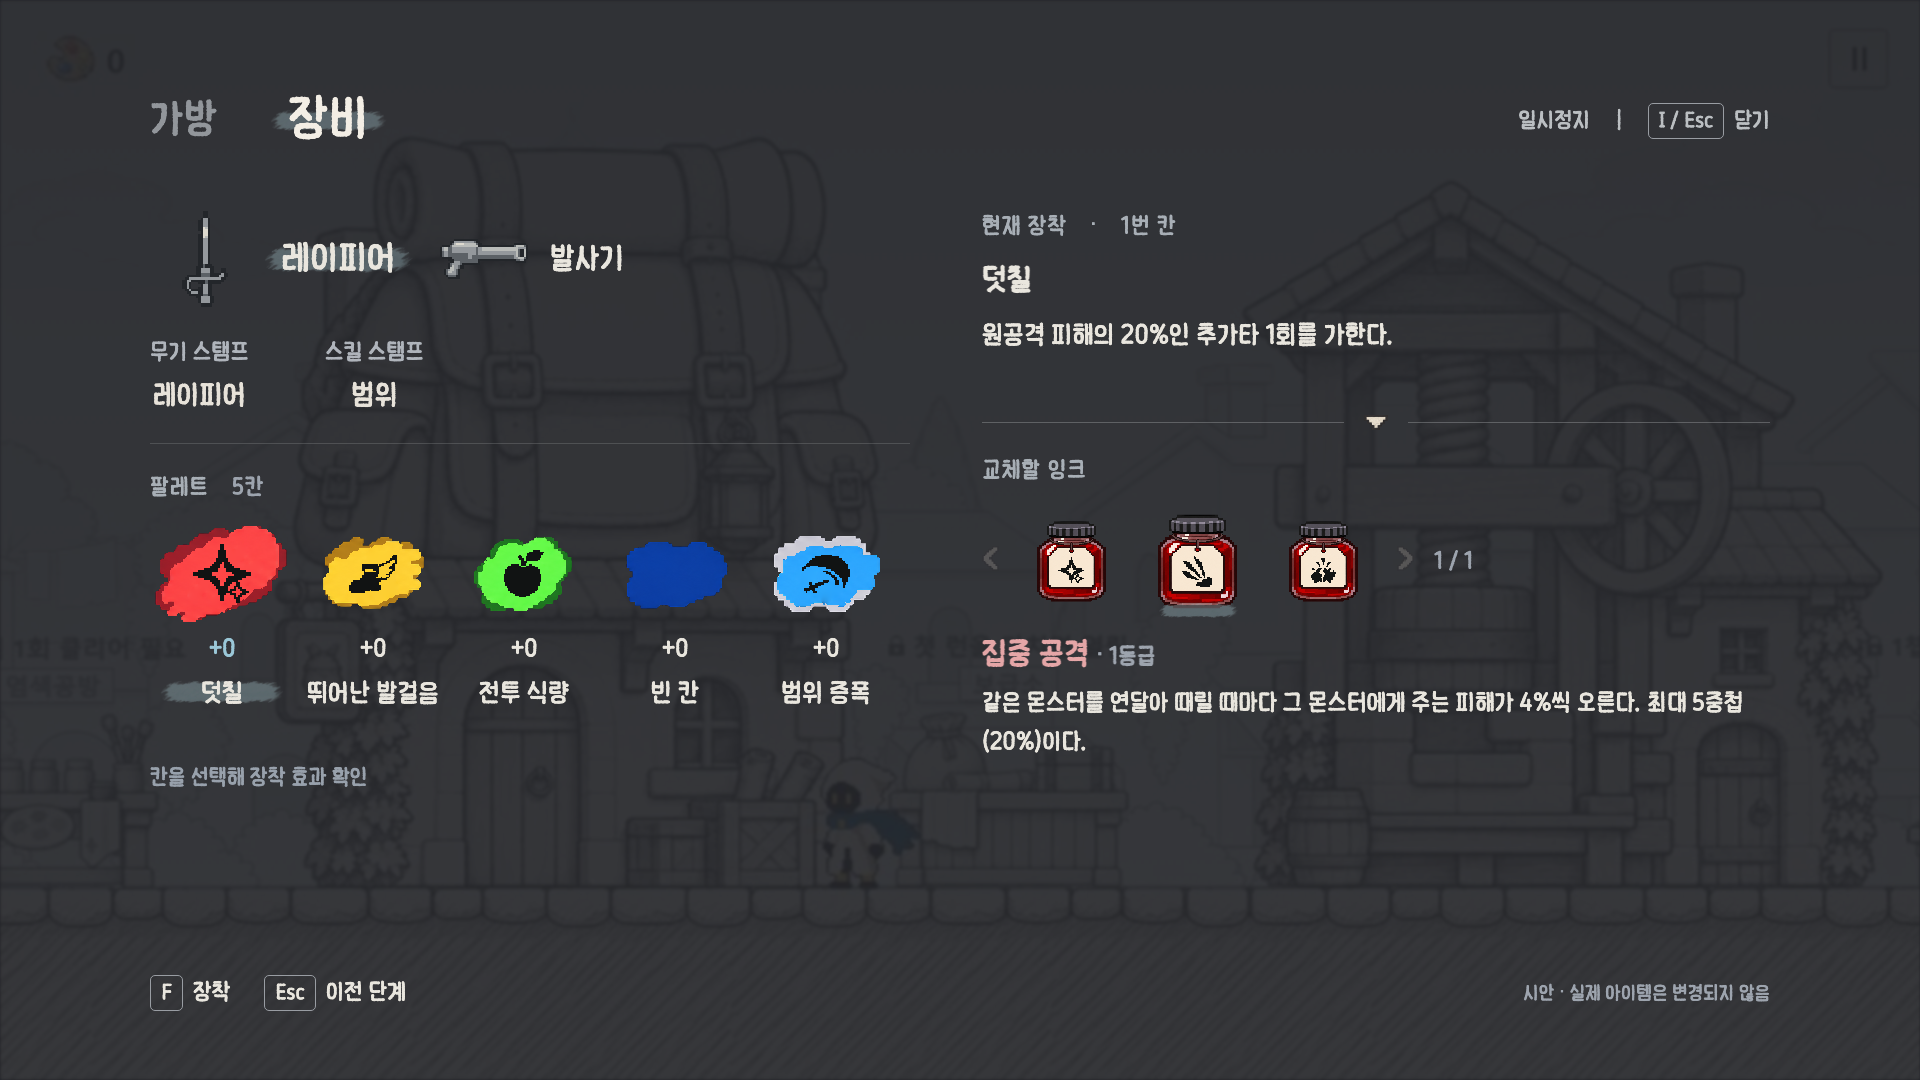
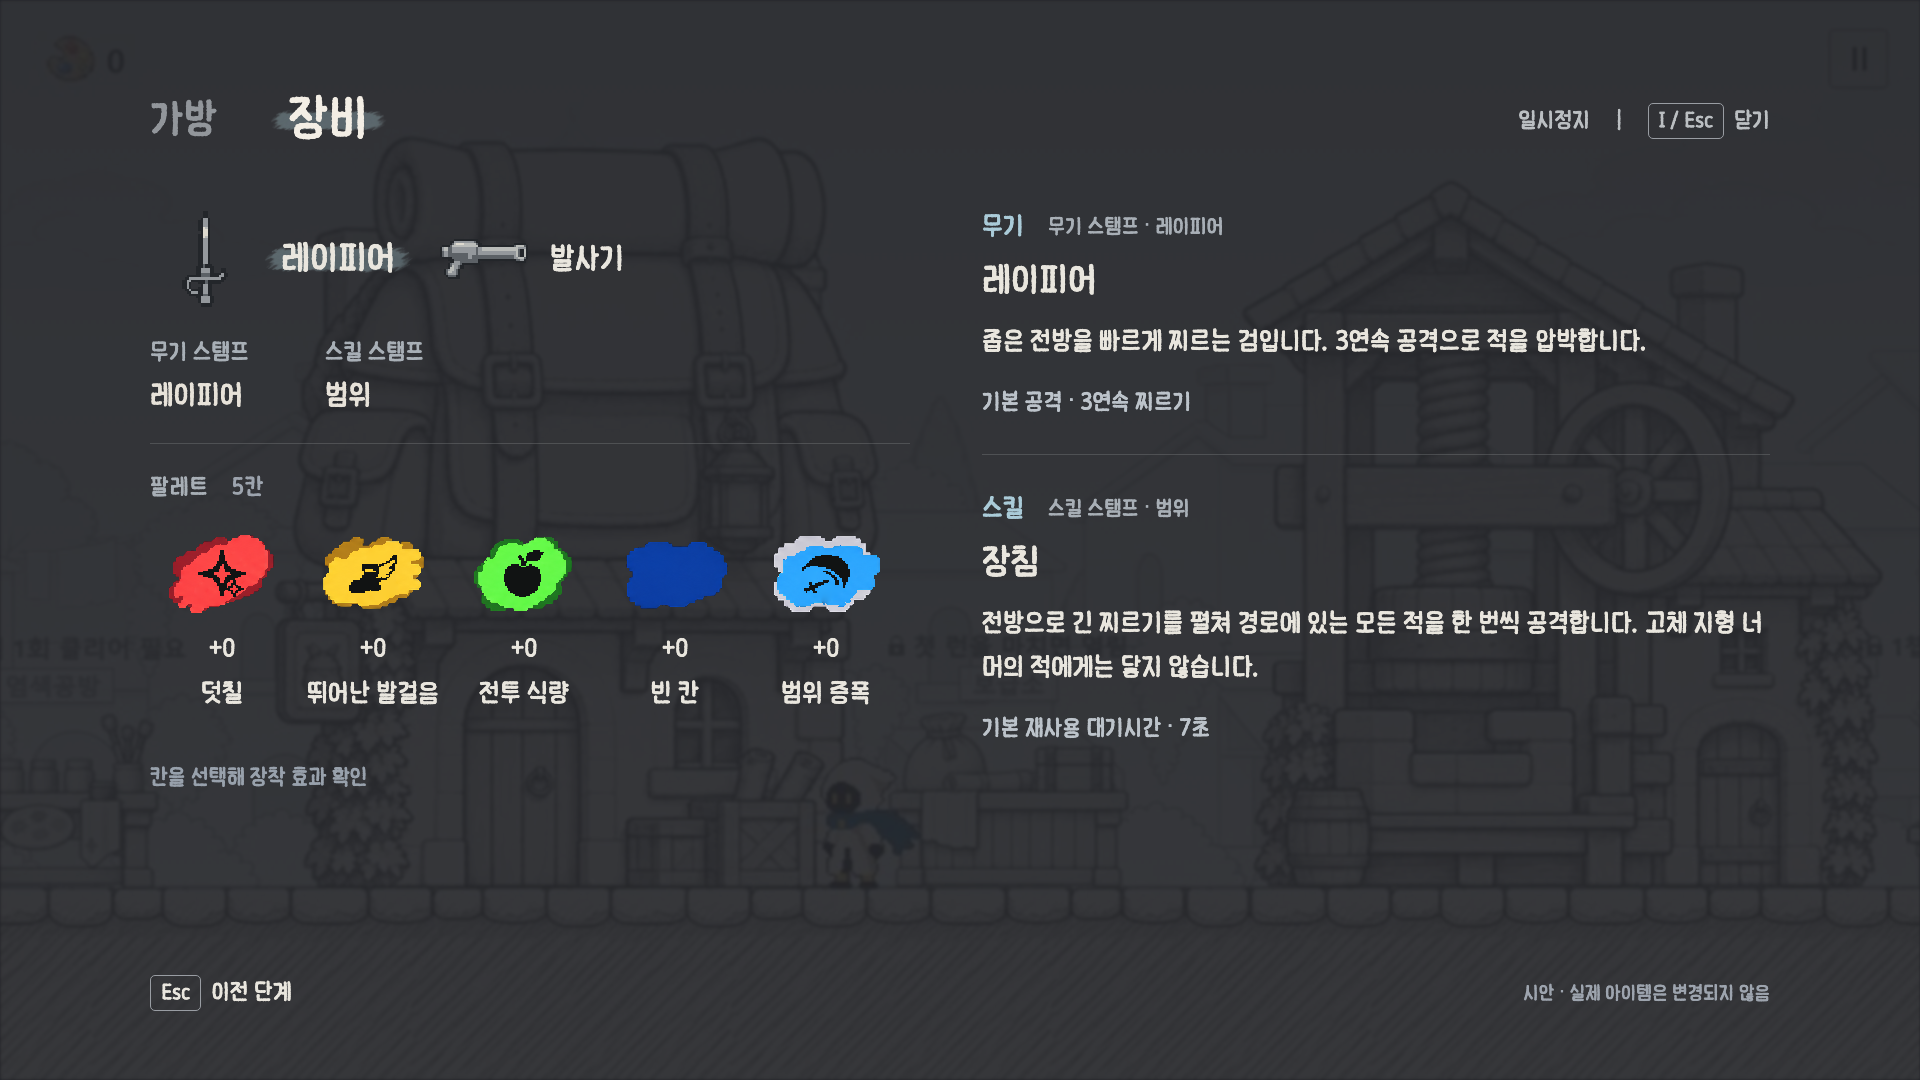
Show weapon and actual skill descriptions together on weapon selection

diff --git a/ui/work/theme/ink-pixel-v1/screen-set-v6/index.html b/ui/work/theme/ink-pixel-v1/screen-set-v6/index.html
@@ -63,11 +63,22 @@ header button.active{transform:scale(1.2)}
 /* Bag icons communicate selection through size only. */
 .grid .item.selected:after{display:none}
 .stamps{gap:76px}.stamps strong{font-family:inherit;font-size:30px;font-weight:normal}.stampTitle{color:#eee9df}.stampWeaponPreview{display:block;width:180px;height:120px;object-fit:contain;image-rendering:pixelated;margin:12px 0 24px}
+.stamps>div{color:#a8afb6}.weaponInfo .infoHeading{font-size:27px;color:#aacbd8;display:flex;align-items:center;gap:24px}.infoHeading span{font-size:22px;color:#a8afb6}.weaponInfo h2{font-size:37px;font-weight:normal;margin:18px 0}.weaponInfo p{font-size:27px;line-height:1.65}.weaponInfo .rule{margin:38px 0}.attackNote{font-size:24px;color:#bcc3ca;margin-top:22px}
 </style><div class="screen"><div class="world"></div><main><header><button id="bag">가방</button><button id="equip">장비</button><aside>일시정지　 |　 <kbd>I / Esc</kbd>닫기</aside></header><div id="content"></div></main><footer class="footer" id="footer"></footer></div><script>
-const data=[{"id": "ink3_red_01", "name": "덧칠", "color": "red", "description": "원공격 피해의 20%인 추가타 1회를 가한다."}, {"id": "ink3_red_02", "name": "집중 공격", "color": "red", "description": "같은 몬스터를 연달아 때릴 때마다 그 몬스터에게 주는 피해가 4%씩 오른다. 최대 5중첩(20%)이다."}, {"id": "ink3_red_04", "name": "터지는 잉크", "color": "red", "description": "표식을 터트린 몬스터에게 기준 피해 60%인 추가타 1회를 가한다."}, {"id": "ink3_yellow_01", "name": "전기 발자국", "color": "yellow", "description": "1.5unit 이동할 때마다 발밑에 작은 전기장(반경 0.75)을 2초간 남긴다. 전기장 안의 몬스터는 0.5초마다 기준 피해 15%를 받는다."}, {"id": "ink3_yellow_02", "name": "뛰어난 발걸음", "color": "yellow", "description": "공격 속도와 이동 속도가 각각 10% 증가한다."}, {"id": "ink3_green_04", "name": "전투 식량", "color": "green", "description": "몬스터를 5마리 처치할 때마다 체력 6을 회복한다."}, {"id": "ink3_green_01", "name": "든든한 배리어", "color": "green", "description": "보호막이 남아 있는 동안 공격 피해가 20% 증가한다."}, {"id": "ink3_blue_01", "name": "범위 증폭", "color": "blue", "description": "공격 범위(반경)가 20% 증가한다."}, {"id": "ink3_blue_02", "name": "교대 타격", "color": "blue", "description": "이 잉크를 낀 무기에서 다른 무기로 바꾸면, 바꿔 든 무기 특수 스킬의 남은 쿨타임이 1초 줄어든다. 이 잉크를 낀 무기의 쿨타임은 줄지 않는다."}, {"id": "ink3_purple_01", "name": "먹물 늪", "color": "purple", "description": "몬스터를 0.8초 속박하고, 속박을 걸 때 기준 피해 30%를 준다."}, {"id": "ink3_purple_05", "name": "사약", "color": "purple", "description": "몬스터를 3초간 중독시켜 0.5초마다 기준 피해 8%를 준다. 다시 맞히면 지속시간만 갱신한다."}, {"id": "ink3_purple_07", "name": "쪽빛 족쇄", "color": "purple", "description": "남색 표식이 터질 때 몬스터를 0.6초 속박하고, 속박을 걸 때 기준 피해 20%를 준다."}];let view=new URLSearchParams(location.search).get('view')||'bag',selected=new URLSearchParams(location.search).has('view')&&new URLSearchParams(location.search).get('view')==='equipment'?1:0,slot=Number(new URLSearchParams(location.search).get('slot')||0),page=0,weapon=0,category=Number(new URLSearchParams(location.search).get('category')||0),stamp=new URLSearchParams(location.search).get('stamp')||'';const hasStamps=new URLSearchParams(location.search).get('stamps')!=='empty';const colors={red:'#e5a6a7',yellow:'#e0cc83',green:'#a9d797',blue:'#97c7e9',purple:'#c7a6df'};let equipped=['ink3_red_01','ink3_yellow_02','ink3_green_04',null,'ink3_blue_01'];const slotColors=['red','yellow','green','blue','neutral'];
+const data=[{"id": "ink3_red_01", "name": "덧칠", "color": "red", "description": "원공격 피해의 20%인 추가타 1회를 가한다."}, {"id": "ink3_red_02", "name": "집중 공격", "color": "red", "description": "같은 몬스터를 연달아 때릴 때마다 그 몬스터에게 주는 피해가 4%씩 오른다. 최대 5중첩(20%)이다."}, {"id": "ink3_red_04", "name": "터지는 잉크", "color": "red", "description": "표식을 터트린 몬스터에게 기준 피해 60%인 추가타 1회를 가한다."}, {"id": "ink3_yellow_01", "name": "전기 발자국", "color": "yellow", "description": "1.5unit 이동할 때마다 발밑에 작은 전기장(반경 0.75)을 2초간 남긴다. 전기장 안의 몬스터는 0.5초마다 기준 피해 15%를 받는다."}, {"id": "ink3_yellow_02", "name": "뛰어난 발걸음", "color": "yellow", "description": "공격 속도와 이동 속도가 각각 10% 증가한다."}, {"id": "ink3_green_04", "name": "전투 식량", "color": "green", "description": "몬스터를 5마리 처치할 때마다 체력 6을 회복한다."}, {"id": "ink3_green_01", "name": "든든한 배리어", "color": "green", "description": "보호막이 남아 있는 동안 공격 피해가 20% 증가한다."}, {"id": "ink3_blue_01", "name": "범위 증폭", "color": "blue", "description": "공격 범위(반경)가 20% 증가한다."}, {"id": "ink3_blue_02", "name": "교대 타격", "color": "blue", "description": "이 잉크를 낀 무기에서 다른 무기로 바꾸면, 바꿔 든 무기 특수 스킬의 남은 쿨타임이 1초 줄어든다. 이 잉크를 낀 무기의 쿨타임은 줄지 않는다."}, {"id": "ink3_purple_01", "name": "먹물 늪", "color": "purple", "description": "몬스터를 0.8초 속박하고, 속박을 걸 때 기준 피해 30%를 준다."}, {"id": "ink3_purple_05", "name": "사약", "color": "purple", "description": "몬스터를 3초간 중독시켜 0.5초마다 기준 피해 8%를 준다. 다시 맞히면 지속시간만 갱신한다."}, {"id": "ink3_purple_07", "name": "쪽빛 족쇄", "color": "purple", "description": "남색 표식이 터질 때 몬스터를 0.6초 속박하고, 속박을 걸 때 기준 피해 20%를 준다."}];let view=new URLSearchParams(location.search).get('view')||'bag',selected=new URLSearchParams(location.search).has('view')&&new URLSearchParams(location.search).get('view')==='equipment'?1:0,slot=Number(new URLSearchParams(location.search).get('slot')||0),page=0,weapon=Number(new URLSearchParams(location.search).get('weapon')||0),category=Number(new URLSearchParams(location.search).get('category')||0),stamp=new URLSearchParams(location.search).has('slot')?'':'weapon';const hasStamps=new URLSearchParams(location.search).get('stamps')!=='empty';const colors={red:'#e5a6a7',yellow:'#e0cc83',green:'#a9d797',blue:'#97c7e9',purple:'#c7a6df'};let equipped=['ink3_red_01','ink3_yellow_02','ink3_green_04',null,'ink3_blue_01'];const slotColors=['red','yellow','green','blue','neutral'];
 function item(d,idx,active){return `<button class="item ${active?'selected':''}" aria-label="${d.name}" onclick="selected=${idx};render()"><img src="assets/${d.id}-jar.png" alt="${d.name}"></button>`}
 function render(){bag.className=view==='bag'?'active swash':'';equip.className=view==='equipment'?'active swash':'';if(new URLSearchParams(location.search).get('stress')==='long'&&view==='bag')selected=8;let d=data[selected];document.documentElement.style.setProperty('--ink',colors[d.color]);
 if(view==='bag'){content.innerHTML=`<div class="columns"><section><nav class="tabs">${['전체 12','색·능력치 12/15','형태 0/15','특수 0/15'].map((x,i)=>`<button class="${i===category?'active swash':''}" onclick="category=${i};render()">${x}</button>`).join('')}</nav>${category<2?`<div class="grid">${data.map((x,i)=>item(x,i,i===selected)).join('')}</div><div class="bagcount">보유 12개　·　카테고리별 보관</div>`:'<div class="empty">보유한 도장이 없습니다</div>'}</section><section class="detail">${category<2?`<div class="label">선택한 잉크</div><div class="detailHero"><img src="assets/${d.id}-jar.png"><div><h1 class="title">${d.name}</h1><p class="muted small">색상 잉크 · 1등급</p></div></div><div class="rule"></div><p>${d.description}</p><p class="muted small">${d.id==='ink3_red_01'?'재발동 간격 0.25초':''}</p><div class="hint">장착과 교체는 장비 탭에서</div>`:''}</section></div>`;footer.innerHTML='<span><kbd>X</kbd>버리기</span><span><kbd>X</kbd>3초 눌러 파괴</span><span class="muted">짧게 누르기 / 길게 누르기</span>';
-}else{let current=data.find(x=>x.id===equipped[slot]);let sc=slotColors[slot];let candidates=data.map((x,i)=>({...x,index:i})).filter(x=>sc==='neutral'||x.color===sc);if(!candidates.some(x=>x.index===selected)){selected=candidates[0].index;d=data[selected]}document.documentElement.style.setProperty('--ink',colors[d.color]);let visible=candidates.slice(page*4,page*4+4);if(!visible.length){page=0;visible=candidates.slice(0,4)}content.innerHTML=`<div class="columns"><section><div class="weapons"><button onclick="weapon=0;render()" class="${weapon===0?'swash':''}"><img src="assets/weapon-${hasStamps?'rapier':'base_sword'}.png"><span class="weaponName">${hasStamps?'레이피어':'기본검'}</span></button><button onclick="weapon=1;render()" class="${weapon===1?'swash':''}"><img src="assets/weapon-launcher.png"><span class="weaponName">발사기</span></button></div><div class="stamps"><button class="${stamp==='무기'?'selectedStamp':''}" onclick="stamp='무기';render()"><span class="stampName">무기 스탬프</span><strong>${hasStamps&&weapon===0?'레이피어':'—'}</strong></button><button class="${stamp==='특수'?'selectedStamp':''}" onclick="stamp='특수';render()"><span class="stampName">스킬 스탬프</span><strong>${hasStamps&&weapon===0?'범위':'—'}</strong></button></div><div class="rule"></div><div class="label">팔레트　<span class="muted small">5칸</span></div><div class="slots">${slotColors.map((c,i)=>{let id=equipped[i], ink=data.find(x=>x.id===id);return `<button class="slot ${slot===i&&!stamp?'focus':''}" onclick="slot=${i};page=0;stamp='';render()"><div class="layers"><img src="assets/${id?(c==='neutral'?'neutral-filled-':'filled-')+ink.color:'empty-'+c}.png">${id?`<img src="assets/${id}.png">`:''}</div><span>+0</span><strong class="slotname">${data.find(x=>x.id===id)?.name||'빈 칸'}</strong></button>`}).join('')}</div><div class="hint">칸을 선택해 장착 효과 확인</div></section><section>${stamp?`<div class="label">현재 장착 · ${stamp==='무기'?'무기':'스킬'} 스탬프</div>${hasStamps&&weapon===0?`<h2 class="title stampTitle">${stamp==='무기'?'레이피어':'범위'}</h2>${stamp==='무기'?'<img class="stampWeaponPreview" src="assets/weapon-rapier.png" alt="레이피어">':''}<p>${stamp==='무기'?'검 도면의 무기 형태를 레이피어로 바꿉니다. 기본 공격과 기본 특수 공격도 해당 형태로 변경됩니다.':'현재 무기의 특수 공격을 범위 변형으로 바꿉니다. 무기 형태를 바꿔도 범위 변형은 유지됩니다.'}</p><div class="rule"></div><div class="label">${stamp==='무기'?'함께 적용 중인 스킬 스탬프':'적용 중인 무기 형태'}</div><p>${stamp==='무기'?'범위':'레이피어'}</p><div class="hint">스탬프 교체는 정비소에서</div>`:'<h2 class="title">장착된 스탬프 없음</h2><p>—</p><div class="hint">스탬프 장착은 정비소에서</div>'}`:`<div class="current"><div class="label">현재 장착　·　${slot+1}번 ${sc==='neutral'?'무색':''} 칸</div><h2>${current?.name||'—'}</h2><p>${current?.description||'장착된 잉크 없음'}</p></div><div class="transition"><img src="assets/transition-down.png" alt="교체 방향"></div><div class="label">교체할 잉크</div><div class="candidateRow"><button class="arrow" aria-label="이전 잉크" onclick="movePage(-1)" ${page===0?'disabled':''}><img src="assets/chevron-left.png" alt="이전"></button>${visible.map(x=>item(x,x.index,x.index===selected)).join('')}<button class="arrow" aria-label="다음 잉크" onclick="movePage(1)" ${(page+1)*4>=candidates.length?'disabled':''}><img src="assets/chevron-right.png" alt="다음"></button><span class="muted small">${page+1} / ${Math.ceil(candidates.length/4)}</span></div><div class="candidateDetail"><h2>${d.name} <span class="muted small">· 1등급</span></h2><p>${d.description}</p></div>`}</section></div>`;footer.innerHTML=(stamp?'':'<span><kbd>F</kbd>장착</span>')+'<span><kbd>Esc</kbd>이전 단계</span><span class="muted">시안 · 실제 아이템은 변경되지 않음</span>'}}
-function movePage(delta){page+=delta;let c=slotColors[slot];let a=data.map((x,i)=>({...x,index:i})).filter(x=>c==='neutral'||x.color===c);selected=a[page*4].index;render()}bag.onclick=()=>{view='bag';render()};equip.onclick=()=>{view='equipment';selected=1;render()};function fit(){document.querySelector('.screen').style.transform=`scale(${Math.min(innerWidth/1920,innerHeight/1080)})`}onresize=fit;fit();render();
+}else{let current=data.find(x=>x.id===equipped[slot]);let sc=slotColors[slot];let candidates=data.map((x,i)=>({...x,index:i})).filter(x=>sc==='neutral'||x.color===sc);if(!candidates.some(x=>x.index===selected)){selected=candidates[0].index;d=data[selected]}document.documentElement.style.setProperty('--ink',colors[d.color]);let visible=candidates.slice(page*4,page*4+4);if(!visible.length){page=0;visible=candidates.slice(0,4)}content.innerHTML=`<div class="columns"><section><div class="weapons"><button onclick="weapon=0;stamp='weapon';render()" class="${weapon===0?'swash':''}"><img src="assets/weapon-${hasStamps?'rapier':'base_sword'}.png"><span class="weaponName">${hasStamps?'레이피어':'기본검'}</span></button><button onclick="weapon=1;stamp='weapon';render()" class="${weapon===1?'swash':''}"><img src="assets/weapon-launcher.png"><span class="weaponName">발사기</span></button></div><div class="stamps"><div><span class="stampName">무기 스탬프</span><strong>${hasStamps&&weapon===0?'레이피어':'—'}</strong></div><div><span class="stampName">스킬 스탬프</span><strong>${hasStamps&&weapon===0?'범위':'—'}</strong></div></div><div class="rule"></div><div class="label">팔레트　<span class="muted small">5칸</span></div><div class="slots">${slotColors.map((c,i)=>{let id=equipped[i], ink=data.find(x=>x.id===id);return `<button class="slot ${slot===i&&!stamp?'focus':''}" onclick="slot=${i};page=0;stamp='';render()"><div class="layers"><img src="assets/${id?(c==='neutral'?'neutral-filled-':'filled-')+ink.color:'empty-'+c}.png">${id?`<img src="assets/${id}.png">`:''}</div><span>+0</span><strong class="slotname">${data.find(x=>x.id===id)?.name||'빈 칸'}</strong></button>`}).join('')}</div><div class="hint">칸을 선택해 장착 효과 확인</div></section><section>${stamp?weaponDetails():`<div class="current"><div class="label">현재 장착　·　${slot+1}번 ${sc==='neutral'?'무색':''} 칸</div><h2>${current?.name||'—'}</h2><p>${current?.description||'장착된 잉크 없음'}</p></div><div class="transition"><img src="assets/transition-down.png" alt="교체 방향"></div><div class="label">교체할 잉크</div><div class="candidateRow"><button class="arrow" aria-label="이전 잉크" onclick="movePage(-1)" ${page===0?'disabled':''}><img src="assets/chevron-left.png" alt="이전"></button>${visible.map(x=>item(x,x.index,x.index===selected)).join('')}<button class="arrow" aria-label="다음 잉크" onclick="movePage(1)" ${(page+1)*4>=candidates.length?'disabled':''}><img src="assets/chevron-right.png" alt="다음"></button><span class="muted small">${page+1} / ${Math.ceil(candidates.length/4)}</span></div><div class="candidateDetail"><h2>${d.name} <span class="muted small">· 1등급</span></h2><p>${d.description}</p></div>`}</section></div>`;footer.innerHTML=(stamp?'':'<span><kbd>F</kbd>장착</span>')+'<span><kbd>Esc</kbd>이전 단계</span><span class="muted">시안 · 실제 아이템은 변경되지 않음</span>'}}
+
+function weaponDetails(){
+const ranged=weapon===1, rapier=!ranged&&hasStamps;
+const name=ranged?'발사기':rapier?'레이피어':'기본검';
+const description=ranged?'직선으로 볼 탄환을 쏘는 원거리 무기입니다.':rapier?'좁은 전방을 빠르게 찌르는 검입니다. 3연속 공격으로 적을 압박합니다.':'전방을 베는 근접 무기입니다. 두 번의 베기를 이어 공격합니다.';
+const skill=ranged?'모아쏘기':rapier?'장침':'강베기';
+const skillDescription=ranged?'힘을 모아 탄환을 발사합니다. 충전 단계에 따라 피해가 커지고, 적에게 맞으면 주변에도 범위 피해를 줍니다.':rapier?'전방으로 긴 찌르기를 펼쳐 경로에 있는 모든 적을 한 번씩 공격합니다. 고체 지형 너머의 적에게는 닿지 않습니다.':'전방의 넓은 범위를 강하게 베어 범위 안의 적을 공격합니다.';
+return `<div class="weaponInfo"><section><div class="infoHeading">무기 <span>${rapier?'무기 스탬프 · 레이피어':'기본 형태'}</span></div><h2>${name}</h2><p>${description}</p><div class="attackNote">기본 공격 · ${ranged?'볼 탄환':rapier?'3연속 찌르기':'2연속 베기'}</div></section><div class="rule"></div><section><div class="infoHeading">스킬 <span>${rapier?'스킬 스탬프 · 범위':'기본 특수 공격'}</span></div><h2>${skill}</h2><p>${skillDescription}</p><div class="attackNote">기본 재사용 대기시간 · ${ranged?'6':rapier?'7':'5'}초</div></section></div>`;
+}
+
+function movePage(delta){page+=delta;let c=slotColors[slot];let a=data.map((x,i)=>({...x,index:i})).filter(x=>c==='neutral'||x.color===c);selected=a[page*4].index;render()}bag.onclick=()=>{view='bag';render()};equip.onclick=()=>{view='equipment';selected=1;stamp='weapon';render()};function fit(){document.querySelector('.screen').style.transform=`scale(${Math.min(innerWidth/1920,innerHeight/1080)})`}onresize=fit;fit();render();
 </script></html>

diff --git a/ui/work/theme/ink-pixel-v1/screen-set-v6/README.md b/ui/work/theme/ink-pixel-v1/screen-set-v6/README.md
@@ -15,3 +15,6 @@
 
 ## 장착된 스탬프 상태
 기본 예시: 무기1 레이피어 + 범위 스킬 스탬프. 무기2는 미장착. ?view=equipment&stamp=무기 / stamp=특수 로 각각 설명 표시, &stamps=empty 로 빈 상태. 현재 선택 이름과 형태 아이콘을 표시하며 별도 스탬프 전용 아이콘 제작은 포함하지 않는다. 실제 전투 수치 대신 docs/design/systems/ink-blueprint-proposal.md의 형태/변형 역할 설명 사용. 교체는 정비소 전용이므로 스탬프 열람 상태의 F 장착 안내 제거. 기존 공용 가방 카테고리 등 구형 규칙 정리는 별도 과제.
+
+## 무기 선택 시 통합 설명 (현행)
+스탬프 개별 버튼을 읽기 전용 장착 정보로 변경. 장비 진입/무기 선택 시 오른쪽에 무기 특징·기본 공격 / 스킬 이름·실제 동작·기본 쿨타임을 구분 표시하며 중복 무기 아이콘 제거. 팔레트 클릭 시 기존 잉크 교체 화면. 설명 근거: combat/melee.md 레이피어 장침·기본검 강베기, combat/launcher.md 모아쏘기. 수치는 강화 적용 전 기본값. ?view=equipment&weapon=1 발사기, &stamps=empty 기본검, &slot=0 잉크 교체. 이전 개별 스탬프 미리보기는 역사 기록이며 현행 동작 아님.
